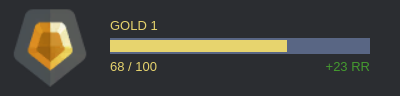
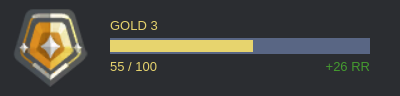
Calculate session RR

diff --git a/src/tracker/tracker.ts b/src/tracker/tracker.ts
@@ -5,6 +5,18 @@ import config from '../../config.json'
 import { MatchNotification } from "../discord/embeds/MatchNotification/MatchNotification";
 import { TextChannel } from "discord.js";
 
+
+function datesWithin(withinHours: number, date1: Date, date2: Date): boolean {
+    // Calculate the difference in milliseconds
+    const difference = Math.abs(date1.getTime() - date2.getTime());
+    
+    // Convert milliseconds to hours
+    const hours = difference / (1000 * 60 * 60);
+    
+    // Check if the difference is less than or equal to 3 hours
+    return hours <= withinHours;
+  }
+
 export async function beginWatch(discord: DiscordBot, valapi: ValorantAPI) {
     watch(discord, valapi)
     setInterval(() => watch(discord, valapi), config.trackIntervalSeconds * 1000);
@@ -22,10 +34,16 @@ async function watch(discord: DiscordBot, valapi: ValorantAPI) {
             
             // TODO: Save region to DB and pull region
             const mmr = await valapi.getMMRByPUUID({puuid: player.playerId, region: "na" })
-            
             const progressAttachment = await valapi.getRankProgressImageAttachment(mmr.data)
+
+            if (datesWithin(3, new Date(), player.updatedAt)) {
+                // Game was played within the same session, update session RR
+                player.sessionRR = player.sessionRR + mmr.data.current_data.mmr_change_to_last_game;
+            } else {
+                player.sessionRR = mmr.data.current_data.mmr_change_to_last_game
+            }
             
-            const matchNotificationEmbed = MatchNotification({match, attachment: progressAttachment.name!});
+            const matchNotificationEmbed = MatchNotification({player, match, attachment: progressAttachment.name!});
             
             for (const channelId of player.channelIds) {
                 (discord.client.channels.cache.get(channelId) as TextChannel).send({
@@ -34,6 +52,7 @@ async function watch(discord: DiscordBot, valapi: ValorantAPI) {
             }
             
             player.lastNotifiedMatchId = match.metadata.matchid
+            player.updatedAt = new Date();
             
             await collections.players?.updateOne({playerId: player.playerId}, {$set: {...player}})
         }

diff --git a/src/discord/embeds/MatchNotification/MatchNotification.ts b/src/discord/embeds/MatchNotification/MatchNotification.ts
@@ -1,10 +1,13 @@
 import {EmbedBuilder} from 'discord.js';
 import {Match} from '../../../valorant/types/match';
+import TrackedPlayer from '../../../db/models/TrackedPlayer';
 
 export const MatchNotification = ({
+  player,
   match,
   attachment,
 }: {
+  player: TrackedPlayer,
   match: Match;
   attachment: string;
 }) =>
@@ -68,4 +71,9 @@ export const MatchNotification = ({
         value: `${match.metadata.rounds_won} / ${match.metadata.rounds_lost}`,
         inline: true,
       },
+      {
+        name: `Session RR`,
+        value: `${player.sessionRR}`,
+        inline: true,
+      }
     ]);

diff --git a/src/db/index.ts b/src/db/index.ts
@@ -63,6 +63,14 @@ async function applySchemaValidation(db: mongoDB.Db) {
           bsonType: 'array',
           description: "'channelIds' is required and is an array",
         },
+        updatedAt: {
+          bsonType: 'date',
+          description: "'updatedAt' is required and is an array",
+        },
+        sessionRR: {
+          bsonType: 'number',
+          description: "'sessionRR' is required and is an array",
+        },
       },
     },
   };

diff --git a/src/discord/commands/track/track.ts b/src/discord/commands/track/track.ts
@@ -63,6 +63,8 @@ export async function execute(
       tag: player.tag,
       playerId: player.puuid,
       channelIds: [interaction.channelId],
+      updatedAt: new Date(),
+      sessionRR: 0,
     });
   }
 

diff --git a/src/db/models/TrackedPlayer.ts b/src/db/models/TrackedPlayer.ts
@@ -7,4 +7,6 @@ export default interface TrackedPlayer {
   playerId: string;
   channelIds: Array<string>;
   id?: ObjectId;
+  updatedAt: Date;
+  sessionRR: number;
 }
